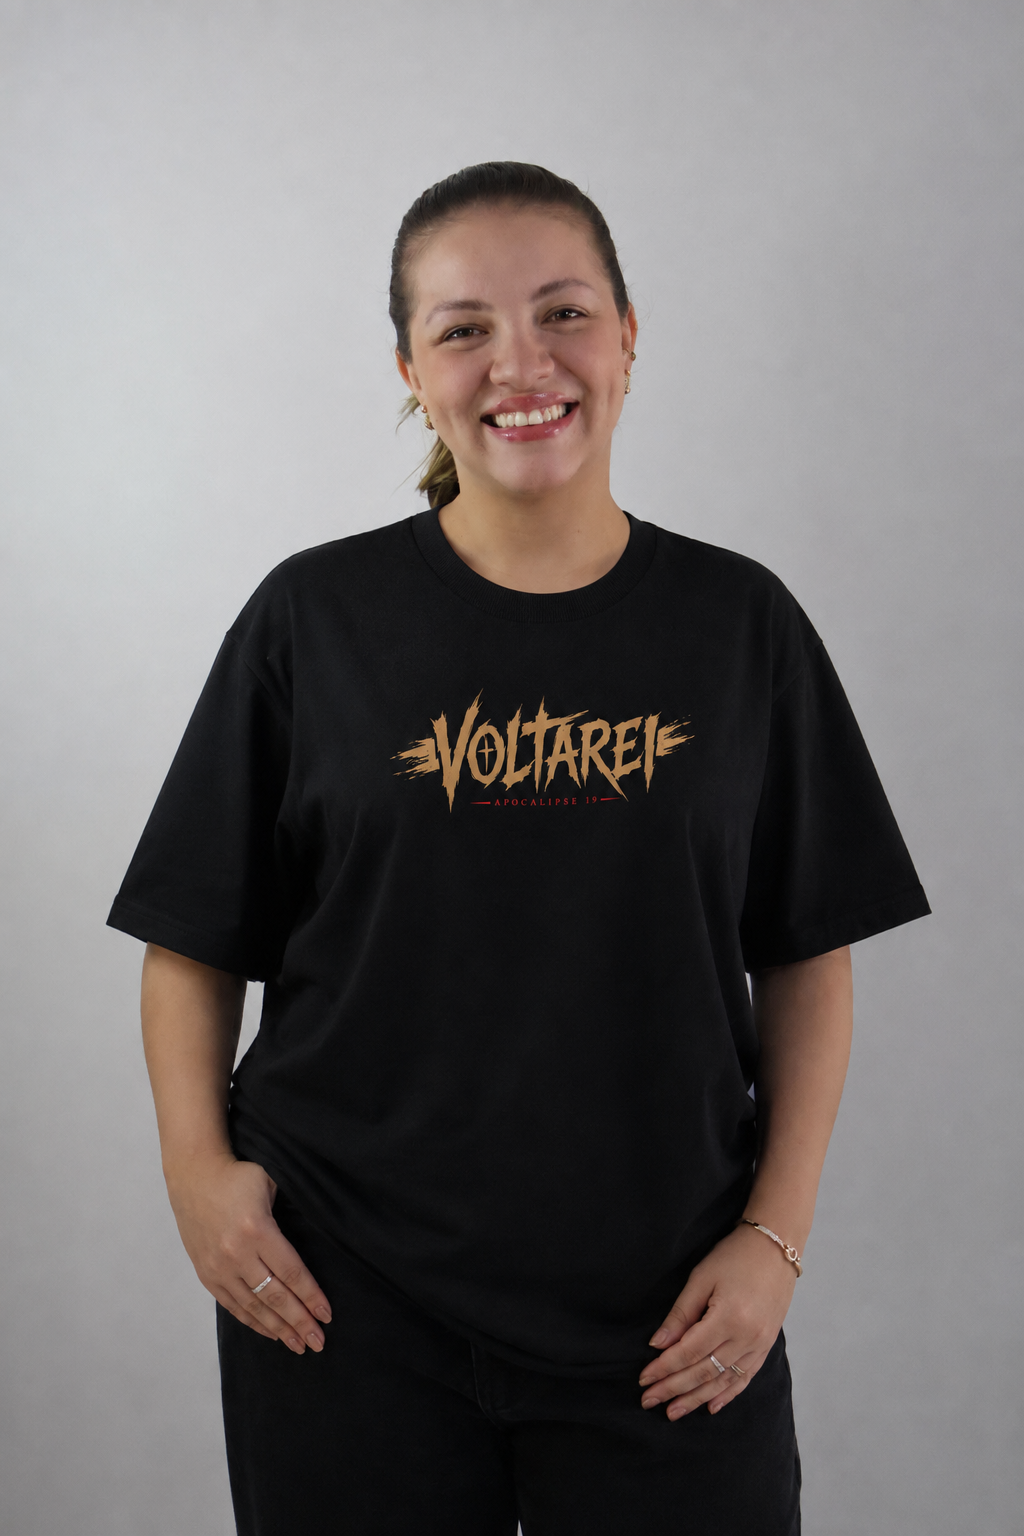
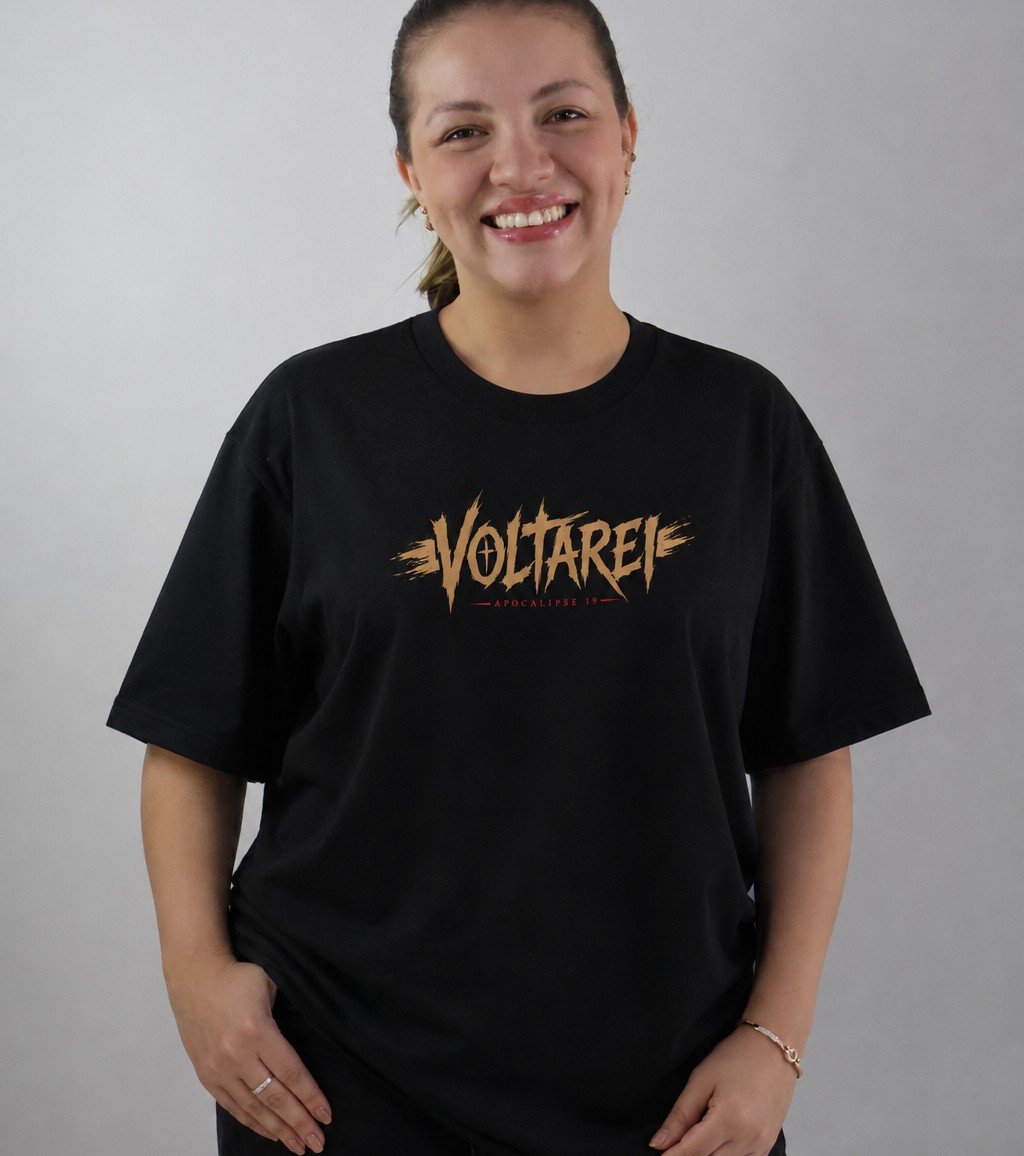
10/08

diff --git a/app/produto/page.tsx b/app/produto/page.tsx
@@ -38,6 +38,18 @@ const VIEWS_BY_FIT: Record<Fit, View[]> = {
       src: "/pessoas/01.webp",
       fit: "object-cover object-top",
     },
+    {
+      id: "oversized-corpo-costas",
+      label: "No corpo",
+      src: "/pessoas/05-costas.jpg",
+      fit: "object-cover object-top",
+    },
+    {
+      id: "oversized-corpo-feminino",
+      label: "No corpo",
+      src: "/pessoas/02.webp",
+      fit: "object-cover object-top",
+    },
   ],
 
   Slimfit: [
